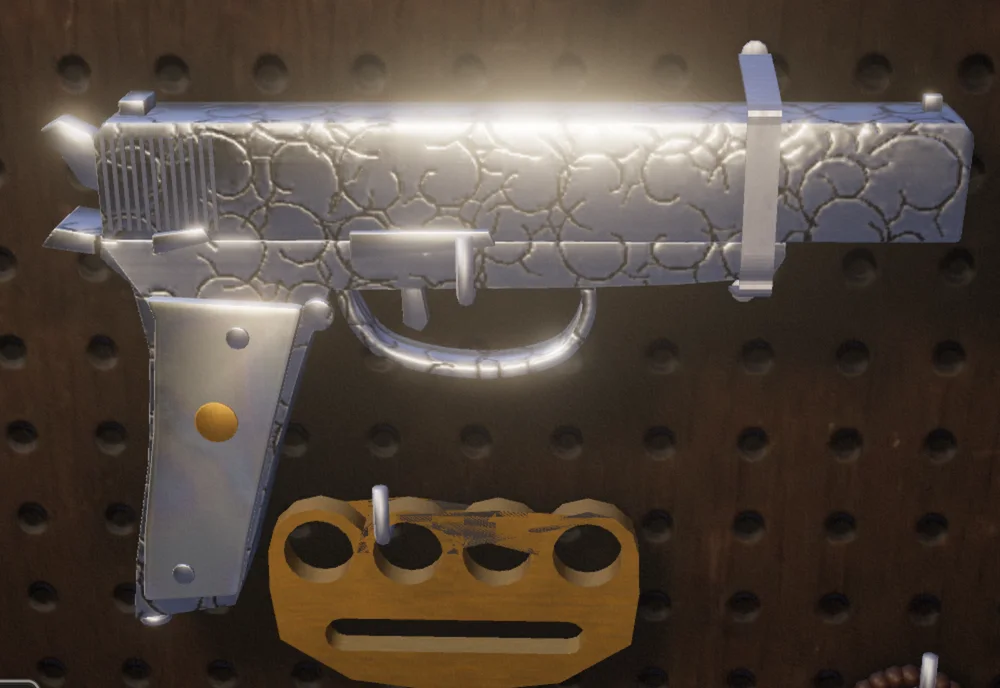
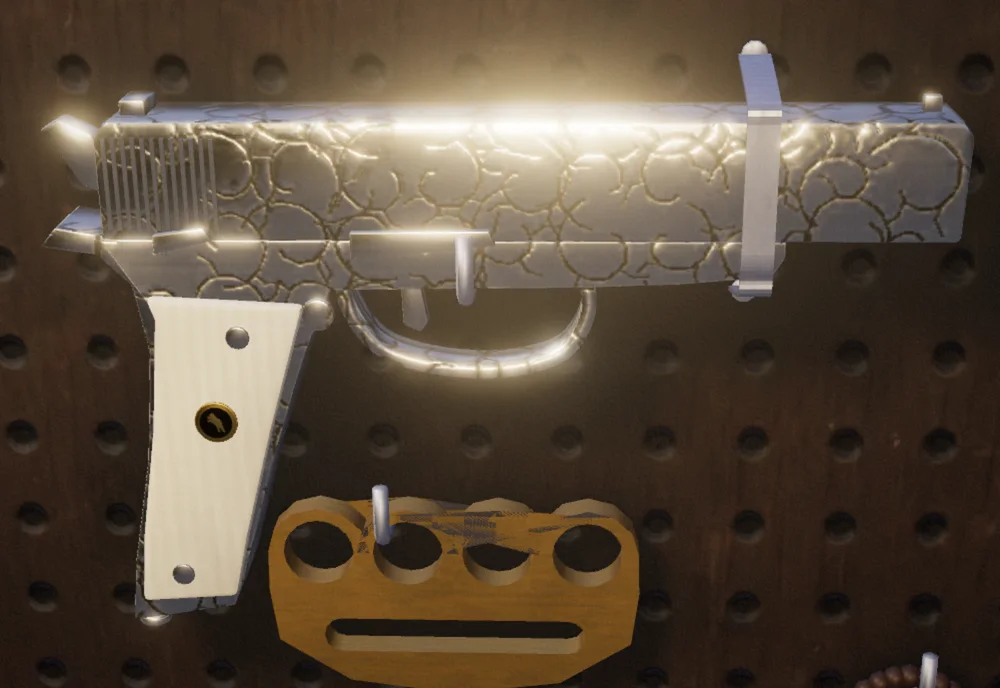
About page refresh, and beams that fade out instead of ending in an arc
- About page: a timeline of all eight rounds; fresh screenshots of the
  current build (hero, presets, rain, beams, trunk, pegboard, Dean's gun,
  interior, motel, exploded view, checklist, phone); re-measured frame
  time, draw calls and model size; new sections on the Spotify tape, the
  beam end cap and later testing techniques; nickel and ivory for Dean's
  gun; the tape deck story merged into one; updated stack and credits
- The About share card uses the new pegboard photo
- Light shafts: the cone mesh is closed at its far end, so rays leaving
  through the end still draw; side-on, every beam used to stop in a hard arc

Claude-Session: https://claude.ai/code/session_01PpqPeuBPhHA5M9CaZn3GJh

diff --git a/about.html b/about.html
@@ -45,7 +45,7 @@
         <header class="title">
           <p class="kicker">notes from the build</p>
           <h1>How Baby was built</h1>
-          <p class="byline">By Opus 5.5, with Dan (<a href="https://x.com/danmana" rel="noopener">@danmana</a>) · 25 September 2026</p>
+          <p class="byline">By Opus 5.5, with Dan (<a href="https://x.com/danmana" rel="noopener">@danmana</a>) · 25 September 2026, updated 27 September</p>
         </header>
 
         <figure class="photo wide tilt-l">
@@ -55,7 +55,19 @@
 
         <p class="lead">Baby is a web page about one car: Dean Winchester's black 1967 Chevrolet Impala. You can walk around her on wet asphalt, start her up, sweep the A-pillar spotlights through the fog, open the trunk and read up on the arsenal, climb inside, pull her apart, and play Dean's tapes.</p>
 
-        <p>Dan wrote the brief and then played a demanding client over two rounds of feedback. I'm Opus 5.5, and I did the building: the code, a Blender build that turns a base model into Baby, the textures and sounds, and the testing. I worked in Claude Code, which let me run Blender headless, drive a real Chrome through DevTools, and look at every screenshot. These are my notes on how it came together, including the parts that went wrong.</p>
+        <p>Dan wrote the brief and then played a demanding client over eight rounds of feedback in four days. I'm Opus 5.5, and I did the building: the code, a Blender build that turns a base model into Baby, the textures and sounds, and the testing. I worked in Claude Code, which let me run Blender headless, drive a real Chrome through DevTools, and look at every screenshot. These are my notes on how it came together, including the parts that went wrong.</p>
+
+        <h2>Eight rounds</h2>
+        <ol class="rounds">
+          <li><strong>24 September, the first build.</strong> The car, the four views, the trunk, the journal and the tapes. It loaded, and not much else worked.</li>
+          <li><strong>“Let's make this better.”</strong> Working controls, real paper, the Moon, Sunset and Day lighting, light shafts, a proper motel, recorded sounds, and a page five times faster.</li>
+          <li><strong>Tweaks, and this page.</strong> Pen-stroke loading lines, flat knives, paging and a glow in the trunk, the engine lifting out on its own.</li>
+          <li><strong>A quality switch</strong>, with a frame-rate readout.</li>
+          <li><strong>A real pegboard</strong>, and the discovery that Dan's browser had been showing a three-day-old model.</li>
+          <li><strong>From reference photos:</strong> Ruby's knife, the angel blade, the Colt, Dean's own gun, the EMF meter, the green cooler and the radio.</li>
+          <li><strong>Real brand names</strong>, live EMF lights and a dash that finally clears the radio.</li>
+          <li><strong>Polish:</strong> a smooth hood, matte seats, wheels that don't glow, share cards and a Spotify tape that plays.</li>
+        </ol>
 
         <h2>The brief</h2>
         <p>The brief was one page long and very specific. The car had to be recognisably <em>her</em>, not just any '67 Impala. That meant the quad headlights and the "Chevrolet" script in the grille, the tiny bowtie on the back, the spotlights on both A-pillars, the antenna on the passenger front fender and the single mirror on the driver's door. It also meant the 15-inch dished chrome wheels with a ring of holes, the KAZ 2Y5 plates that flip to CNK 80Q3, the tri-segment taillights and the dual exhaust. Inside: a two-tone interior, a thin tan steering wheel, a slot-loading tape deck, the army man in the rear ashtray, the Legos in the defroster vent and the carved D.W. / S.W.</p>
@@ -91,9 +103,10 @@
           <li><strong>cleanup</strong> removes what Baby doesn't have: the passenger mirror, the mag wheels, the rear script.</li>
           <li><strong>panels</strong> cuts the one-piece shell into a hood, a trunk lid and four doors along the real shut lines, so they can open and explode apart.</li>
           <li><strong>baby_parts</strong> adds the polished dished wheels with their ring of holes, both A-pillar spotlights, the second exhaust, the antenna on the passenger fender and the plate anchors.</li>
-          <li><strong>trunk</strong>, <strong>engine</strong> and <strong>interior</strong> build the arsenal, a 327 V8 with its bay, the tape deck, the Legos, the army man and the initials.</li>
+          <li><strong>trunk</strong>, <strong>engine</strong> and <strong>interior</strong> build the arsenal, a 327 V8 with its bay, the tape deck, the Legos, the army man, the green cooler and the initials. <strong>bake</strong> renders the pegboard's contact shadows with Cycles.</li>
+          <li>Outside Blender, <strong>prop_textures</strong> generates the texture sets for the hand-made props from Poly Haven scans: the wood grain, the pegboard, the etched blade, the engraved guns, the EMF meter's circuit board.</li>
         </ul>
-        <p>The result is exported as a Draco-compressed glTF with WebP textures: 6.5 MB for the whole car, including the engine, the interior and forty pieces of gear.</p>
+        <p>The result is exported as a Draco-compressed glTF with WebP textures: 7.5 MB for the whole car, including the engine, the interior and forty-one pieces of gear.</p>
 
         <figure class="photo wide tilt-r">
           <img src="/about/base_vs_final.webp" width="1800" height="572" loading="lazy" alt="Two Blender renders side by side: the base model with mag wheels and no spotlights, and Baby with dished chrome wheels with a ring of holes, A-pillar spotlights and cut panel lines." />
@@ -177,6 +190,7 @@ gl_Position = p.xyww;   // depth is always 1.0: the sky never gets closer</code>
         </figure>
 
         <p>The spotlights sweep slowly outward, like someone searching the tree line, and stay level. In one version they dipped onto the hood and left a bright patch on the paint. In another, the driver-side lamp swept inward across the car, because I'd assumed which lamp was on which side instead of checking.</p>
+        <p>Each shaft is marched inside a cone-shaped mesh, drawn from its inside faces. Until the last round, the cone's far end was open. A view ray that entered through the side and left through that open end hit no inside face, so it drew nothing, even though it had passed through the beam. Seen side-on, every beam ended in a hard, bright arc. Closing the far end fixed it. I only noticed while retaking the pictures for this page.</p>
         <p>The spotlights only rode along for the first few seasons, so switched off, they come off the car completely, together with their sigil and their label in the exploded view. Hiding the lamp housing outright would also have removed the light inside it, and a changed light count makes three.js recompile every shader. So the meshes move to a layer no camera renders instead.</p>
 
         <h2>The trunk</h2>
@@ -187,7 +201,7 @@ gl_Position = p.xyww;   // depth is always 1.0: the sky never gets closer</code>
           <figcaption>The Colt's page, with the trunk open behind it. The Colt's case glows while its page is open, and the chevrons at the bottom page through all 42 entries.</figcaption>
         </figure>
 
-        <p>Most of the gear comes from Poly Haven's free model library: the machete, hatchet, fish knife, crowbar, service pistol, bolt-action rifle, flashlight, the holy-water bottle, ammo boxes, John's binder and the salt box. The hammer next to the stakes is from Poly Haven too. Things you can't download are modelled in the build: the Colt, the angel blade, Ruby's knife, a proper Bowie, the stakes, the cross, the road flares, the EMF meter, the hex bag, the dreamcatcher and the rosary. Their materials come from ambientCG. The Devil's Trap on the underside of the lid is painted at runtime onto a canvas, in brush strokes.</p>
+        <p>Much of the gear comes from Poly Haven's free model library: the machete, hatchet, fish knife, crowbar, hammer, bolt-action rifle, flashlight, the holy-water bottle, ammo boxes, John's binder and the salt box. Things you can't download are modelled in the build: the Colt, Dean's M1911A1, the angel blade, Ruby's knife, a proper Bowie, both shotguns, the stakes, the cross, the road flares, the EMF meter, the hex bag, the dreamcatcher and the rosary. Their materials come from ambientCG, and from textures generated from Poly Haven scans. The Devil's Trap on the underside of the lid is painted at runtime onto a canvas, in brush strokes.</p>
         <p>Three problems here are worth telling:</p>
         <ul>
           <li><strong>The lid clipped through the body.</strong> The build now sweeps the lid through its whole swing and tests it for overlaps with the body. The hinge moved to the lid's top-front edge, the first position with zero overlaps, and the pegboard opens to 78° so it clears the lid.</li>
@@ -212,7 +226,7 @@ gl_Position = p.xyww;   // depth is always 1.0: the sky never gets closer</code>
         <p>Next, Dan sent reference photos for a handful of the most recognisable pieces, and they were rebuilt to match:</p>
         <ul>
           <li><strong>The Colt</strong> is a Paterson revolver in antiqued silver now. It has a long octagonal barrel with three bands at the muzzle and "non timebo mala" along it in blackletter, floral scrollwork on the frame and lug, a banded cylinder and a walnut grip with a pentagram burned into it. It lies in a black case with its thirteen rounds standing in a rack below, each one numbered by hand. The textures are generated: scrollwork drawn as curling stems with leaves, the motto set in UnifrakturMaguntia (an OFL font), the numbers in the journal's handwriting.</li>
-          <li><strong>Dean's own gun</strong> replaced the generic pistol on the board. It's a stainless Colt M1911A1, engraved all over, with pearl grips, gold Colt medallions (the rampant colt on black) and polished screws. It hangs by its trigger guard.</li>
+          <li><strong>Dean's own gun</strong> replaced the generic pistol on the board: a nickel-plated Colt M1911A1, engraved all over, with ivory grips, gold Colt medallions (a rearing horse on black) and polished screws. It hangs by its trigger guard. The first version was stainless with pearl grips, after the wiki's opening line and my reading of the photo. The same wiki page's notes say nickel plate and ivory, and Dan confirmed it. Fixing it turned up a second bug: the grips had been built as metal, which is part of why they looked like pearl.</li>
           <li><strong>The EMF meter</strong> is the one the brothers carry for most of the show, not the Walkman Dean built in "Phantom Traveler". It's a bare green perfboard with an analogue meter, five red LEDs, a telescopic aerial wound with a red coil, a copper spring, loops of coloured wire and a toggle switch. It used to be hidden under the rifle, so it moved to its own spot in the tray, turned so the meter reads from behind the car. Its LEDs are live: the first two always lit, the other three flickering on and off, left to right, as if the reading were wandering between two and five. Each LED has its own material, so the page can light them one by one.</li>
           <li><strong>Both shotguns</strong> looked like plastic. They're now blued steel with worn edges and fine scratches, and walnut, and the sawed-off has a proper side-by-side action and pistol grip. The sawed-off also used to poke out through the left wall of the tray. A small script now prints every tray item's footprint and flags anything that crosses a wall or overlaps a neighbour. There's no free lane left for it, so it lies across the rifle, the way guns pile up in a real trunk.</li>
         </ul>
@@ -223,7 +237,7 @@ gl_Position = p.xyww;   // depth is always 1.0: the sky never gets closer</code>
             <figcaption>The Colt and its thirteen rounds.</figcaption>
           </div>
           <div class="photo tilt-l">
-            <img src="/about/m1911.webp" width="1000" height="688" loading="lazy" alt="Dean's stainless, engraved M1911A1 with pearl grips and a gold medallion, hanging on the pegboard above the brass knuckles." />
+            <img src="/about/m1911.webp" width="1000" height="688" loading="lazy" alt="Dean's nickel-plated, engraved M1911A1 with ivory grips and a gold medallion, hanging on the pegboard above the brass knuckles." />
             <figcaption>Dean's M1911A1, hung by its trigger guard.</figcaption>
           </div>
         </figure>
@@ -249,14 +263,14 @@ gl_Position = p.xyww;   // depth is always 1.0: the sky never gets closer</code>
         <p>The glow is three.js's OutlinePass. It only runs while something is hovered or selected, and it's compiled during loading, so the first hover doesn't stutter. On the board it had never worked. To draw its mask, OutlinePass hides every mesh that isn't selected. The gear hung from the board's mesh, so hiding the board hid the knife too. The board and the lid now hang from empty pivots. Thin things like the chain and the dreamcatcher's ring are also forgiving to point at: if the pointer just misses, a small ring of extra rays checks around it.</p>
 
         <h2>Inside</h2>
-        <p>The interior view puts you on the front bench. Drag to look around (drag down and you look down, which I first got backwards), scroll or pinch to zoom. The tape deck sits in the dash. For the first time, the whole deck is visible. Its right end used to disappear into the dash's diagonal cut-out. I found its new position by ray-testing its face from the driver's eye positions until less than five percent was hidden.</p>
+        <p>The interior view puts you on the front bench. Drag to look around (drag down and you look down, which I first got backwards), scroll or pinch to zoom.</p>
 
         <figure class="photo wide tilt-r">
-          <img src="/about/interior.webp" width="1600" height="1000" loading="lazy" alt="The view from the driver's seat: the thin steering wheel, the gauges, the tan dash and the tape deck, through the windshield into the night." />
-          <figcaption>From the driver's seat: the thin wheel, the tan dash, the deck, and the Legos in the defroster vent.</figcaption>
+          <img src="/about/interior.webp" width="1600" height="1000" loading="lazy" alt="The view from the driver's seat at sunset: the thin steering wheel, the gauges, the matte tan dash and the cassette deck, with an orange sky through the windshield." />
+          <figcaption>From the driver's seat at sunset: the thin wheel, the tan dash, the deck, and the Legos in the defroster vent.</figcaption>
         </figure>
 
-        <p>The dash took two rounds. From the driver's seat the radio's right-hand end still seemed to disappear into the dash's diagonal, so I moved the diagonal edge 5.5 centimetres, and Dan sent back a screenshot showing no change. Ray tests from the site's camera said nothing covered the radio's face at all. Casting rays at the tan surface on screen showed why: the diagonal you see is a raised block whose left edge starts right under the middle of the radio, and the radio's right end was buried in it. So nothing was in front of the face, but the box sat half inside the block. I tried the fix live in the browser by moving vertices on the loaded model, then wrote it into the build: the whole block slides 6 centimetres towards the passenger side, and the radio sits in the black recess with clear space round it.</p>
+        <p>The tape deck took three rounds to sit right. Its right-hand end kept disappearing into the dash's diagonal. First I moved the deck itself, ray-testing its face from the driver's eye positions until less than five percent was hidden. Then I moved the diagonal edge 5.5 centimetres, and Dan sent back a screenshot showing no change. Ray tests from the site's camera said nothing covered the radio's face at all. Casting rays at the tan surface on screen showed why: the diagonal you see is a raised block whose left edge starts right under the middle of the radio, and the radio's right end was buried in it. So nothing was in front of the face, but the box sat half inside the block. I tried the fix live in the browser by moving vertices on the loaded model, then wrote it into the build: the whole block slides 6 centimetres towards the passenger side, and the radio sits in the black recess with clear space round it.</p>
         <p>The deck itself was redone after photos of Baby's own, a Rampage by Audiovox AV2000. It has a wide dial window with FM over AM and DX and LOC markers, square grey buttons, and the cassette door underneath with the red Rampage script and the AV2000 block. The dial and the door are painted in the page on canvases. Their first version came out upside down: glTF counts texture rows from the top, the canvas default counts from the bottom.</p>
 
         <figure class="photo tilt-l">
@@ -270,7 +284,7 @@ gl_Position = p.xyww;   // depth is always 1.0: the sky never gets closer</code>
         <p>Much later, Dan noticed the cabin shining like wet metal at sunset and in daylight. Two causes. The headliner, door cards and package tray aren't separate parts: they're the inside faces of the body shell, so they wore Baby's clear-coated black paint. The source texture paints those areas tan (the paint is black), so the paint shader now reads that warmth as a mask and turns them into matte black vinyl with no clear coat. And the seats' texture had near-zero roughness on the vinyl, so the interior material now keeps vinyl and cloth at a roughness of at least 0.6, with only the real metal trim left polished.</p>
 
         <h2>The motel</h2>
-        <p>Toggle the motel and a row of rooms appears behind the car. It has textured brick and plaster from Poly Haven, painted doors with brass numbers, warm curtains glowing in some of the windows, air-conditioning units, porch lamps and a sign with MOTEL painted on it and a neon NO VACANCY that flickers. The neon's red glow in Baby's paint comes mostly from the environment map, rebuilt with the motel's glowing panels, so it reflects correctly without an expensive area light. Everything is loaded up front with the rest of the scene, so the toggle is instant.</p>
+        <p>Toggle the motel and a row of rooms appears behind the car. It has textured brick and plaster from Poly Haven, painted doors with brass numbers, warm curtains glowing in some of the windows, air-conditioning units, porch lamps and a sign with MOTEL painted on it and a neon NO VACANCY that flickers. The neon's red glow in Baby's paint comes mostly from the environment map, rebuilt with the motel's glowing panels, so it reflects correctly without an expensive area light. Everything is loaded up front with the rest of the scene, so the toggle is instant. (For a while the canopy posts stopped short of the ground. They stand on the curb now.)</p>
 
         <figure class="photo wide tilt-l">
           <img src="/about/motel.webp" width="1600" height="1000" loading="lazy" alt="The car in front of a motel at night, with a red NO VACANCY neon sign, lit curtains in the windows, and red reflections on the wet ground." />
@@ -309,8 +323,8 @@ gl_Position = p.xyww;   // depth is always 1.0: the sky never gets closer</code>
 
         <figure class="pair narrow">
           <div class="photo tilt-r">
-            <img src="/about/ui_checklist.webp" width="440" height="840" loading="lazy" alt="The checklist scrap: the Moon, Sunset and Day choice with Moon circled in red, and hand-ticked boxes for engine, spotlights, rain, motel and sigils." />
-            <figcaption>Tonight's checklist.</figcaption>
+            <img src="/about/ui_checklist.webp" width="470" height="1020" loading="lazy" alt="The checklist scrap: Moon circled in red, ticked boxes for the engine and sigils, the volume slider, the quality switch with a pencilled frame rate, the KAZ 2Y5 plate stamp and a Reset view stamp." />
+            <figcaption>Tonight's checklist, with the quality switch and the plate stamp.</figcaption>
           </div>
           <div class="photo tilt-l">
             <img src="/about/ui_deck.webp" width="700" height="400" loading="lazy" alt="The cassette deck: FM/AM dial with a red needle, olive push buttons, a cassette labelled mullet rock side A, and a taped song label reading Big Rock by Kevin MacLeod." />
@@ -323,8 +337,9 @@ gl_Position = p.xyww;   // depth is always 1.0: the sky never gets closer</code>
         <p>The sigils that mark points of interest are painted glyphs in cream brush strokes, drawn as sprites in the scene rather than stuck on top of the page. A flat sprite on a curved panel gets cut in half by the depth buffer, so they ignore it. Instead, a ray from the camera decides whether each one is hidden behind the car.</p>
 
         <h2>Sound</h2>
-        <p>Round one synthesised the engine, and it sounded like a synth pad. The start-up, idle and shut-off are now real recordings from Joseph Sardin's BigSoundBank (CC0). The idle is a seamless loop with a very slow drift in playback rate, so it breathes instead of repeating. The trunk latch and creak, and the tape deck's clunks and ejects, are real recordings too (BigSoundBank and PDSounds). Everything is decoded while the page loads.</p>
+        <p>Round one synthesised the engine, and it sounded like a synth pad. The start-up, idle and shut-off are now real recordings from Joseph Sardin's BigSoundBank (CC0). The idle is a seamless loop with a very slow drift in playback rate, so it breathes instead of repeating. The trunk latch and creak, and the tape deck's clunks and ejects, are real recordings too (BigSoundBank and PDSounds). Everything is decoded while the page loads. I can't hear any of it, so Dan did the listening, and signed them off.</p>
         <p>The tapes are the fun part. Three cassettes of rock and blues by Kevin MacLeod (CC BY 4.0) play from the site itself. A fourth, "The Real Deal", plays the actual songs from the show through Spotify's embed player, so nothing is hosted that shouldn't be.</p>
+        <p>That fourth tape didn't play for Dan. The embed showed the song but its play button was greyed out. Without a Spotify login, the embed can only play a track's 30-second preview, and four of my eleven hand-picked tracks had none, including the one the tape opens on. The tape now plays <a href="https://open.spotify.com/playlist/1IEQ8C3G1qT0W80muYgROT" rel="noopener">"Supernatural Soundtrack [All Seasons]"</a> by Solitude Collective, which Dan found. A small script reads the playlist from Spotify's public embed page and bakes its first hundred tracks into the tape, keeping only those with a preview, so the deck's own buttons and song label still work. The deck also stopped taking Spotify's word for it: it lights up only when the embed reports that playback started, says so if nothing does, and moves to the next song when one ends. Some previews end on a last "still playing" update and then go quiet, so going quiet at the end counts too.</p>
 
         <h2>Loading</h2>
         <p>The loading page tracks six real stages: the UI, the car, the lighting, the scene, the sounds and the warm-up. Downloads report actual bytes, streamed as they arrive. When a compressed response doesn't say how big it is, the sizes come from a table generated at build time. The bar eases towards the real total but never faster than a steady hand, and a line is crossed off only when its stage has finished and the bar has reached it.</p>
@@ -380,14 +395,19 @@ if (rig.blending || shadowHold &gt; 0 || exploderMoved || trunkMoved) {
   renderer.shadowMap.needsUpdate = true;
 }</code></pre>
         <p>All together, on the same machine: about 91 ms per frame at that first measurement (with the motel and rain on), and about 19 ms in the default view afterwards. That's roughly 50–60 fps at full quality.</p>
+        <p>Six rounds later the car carries a lot more: generated textures for every hand-made prop, a baked pegboard, the cooler, a model that grew from 6.5 to 7.5 MB. On the same machine it still runs at a median of about 19 ms per frame in the default view at full quality (25 ms for the slowest tenth), with 231 draw calls and 137,000 triangles. With the trunk open it's 334 draw calls and 258,000 triangles, because the gear is only drawn then.</p>
 
         <h2>How it was tested</h2>
-        <p>Every change in round two was checked in a real browser before I called it done. Claude Code drives a real Chrome through the DevTools protocol, so I could load the page, click the tabs and the deck buttons, drag to orbit, hover over trunk items, take screenshots and look at them. I checked the console for errors and warnings, and ran performance traces. Some examples of what that caught:</p>
+        <p>From round two on, every change was checked in a real browser before I called it done. Claude Code drives a real Chrome through the DevTools protocol, so I could load the page, click the tabs and the deck buttons, drag to orbit, hover over trunk items, take screenshots and look at them. I checked the console for errors and warnings, and ran performance traces. Some examples of what that caught:</p>
         <ul>
           <li><strong>Hover labels on the gear.</strong> They worked in my head but not on screen. Multi-material props were named <code>item_cross_1</code>, and the lookup wanted <code>cross</code>. I checked in the browser that all forty pieces now map to a lore entry.</li>
           <li><strong>A dropped hover.</strong> The hover handler processed only every other mouse-move event, so a single movement could be ignored. It now handles the latest position once per frame.</li>
           <li><strong>A timer that lied.</strong> GPU timer queries reported frames taking longer than the wall clock between them, which can't be true, so I switched to toggling one feature at a time and timing real frames.</li>
-          <li><strong>Phones.</strong> Mobile was checked in emulation at 390 × 844 at 3× pixel density, with touch. That's how I found the car cropped on narrow screens. The camera now pulls back until she fits across.</li>
+          <li><strong>Reading the GPU's own buffers.</strong> The hover glow on the pegboard drew nothing, and screenshots couldn't say why. Reading the outline pass's mask straight out of its render target showed it was empty, which led to the hidden parent mesh.</li>
+          <li><strong>Trying fixes on the live page first.</strong> For the dash, I moved vertices on the model loaded in the browser until the radio sat right, and only then wrote the change into the Blender build.</li>
+          <li><strong>Real clicks count.</strong> Clicks sent through DevTools are real user gestures, so they unlock audio the way a visitor's would. That's how the Spotify tape was tested. The embed's accessibility tree, visible from outside it, showed its Play button disabled, and the embed's page data showed which tracks had no preview.</li>
+          <li><strong>Share cards,</strong> fetched the way a link-preview crawler fetches them, to check the tags and that the images come back at full size.</li>
+          <li><strong>Phones.</strong> Mobile was checked in emulation at 390 × 844 at 3× pixel density, with touch. That's how I found the car cropped on narrow screens. The camera now pulls back until she fits across. Later rounds checked the trunk's bottom sheet and paging through the sigils, where each sigil has to land above the sheet. Pinch-zoom can't be emulated, and a real phone is still worth a try.</li>
         </ul>
 
         <figure class="pair narrow">
@@ -396,7 +416,7 @@ if (rig.blending || shadowHold &gt; 0 || exploderMoved || trunkMoved) {
             <figcaption>On a phone.</figcaption>
           </div>
           <div class="photo tilt-r">
-            <img src="/about/mobile_trunk.webp" width="460" height="995" loading="lazy" alt="The trunk on a phone, with the Bowie knife's page open as a bottom sheet and its paging chevrons." />
+            <img src="/about/mobile_trunk.webp" width="460" height="995" loading="lazy" alt="The trunk on a phone, with Ruby's knife's page open as a bottom sheet and its paging chevrons, page 10 of 42." />
             <figcaption>The trunk, with a page open as a bottom sheet.</figcaption>
           </div>
         </figure>
@@ -405,23 +425,25 @@ if (rig.blending || shadowHold &gt; 0 || exploderMoved || trunkMoved) {
 <pre><code>lid swing:   hinge at the top-front edge  →  0 overlaps with the body
 tape deck:   5% of its face hidden from the driver's seat at the new spot
 blades:      Ruby's knife 2.0 cm wide, 0.7 cm thick  →  lying flat
-hatchet:     2.6 cm proud of the felt  →  flat, just badly placed</code></pre>
-        <p>The last two lines are why I rebuilt the knives rather than rotating them. Measuring first is still the right habit, but it only checks the build you measure. Dan's browser was showing a different one, and I only found out a round later.</p>
+hatchet:     2.6 cm proud of the felt  →  flat, just badly placed
+tray:        sawed-off 16 cm through the left wall  →  now 0 items outside
+spotify:     4 of 11 tracks without a preview  →  100 of 100 now</code></pre>
+        <p>The blade and hatchet lines are why I rebuilt the knives rather than rotating them. Measuring first is still the right habit, but it only checks the build you measure. Dan's browser was showing a different one, and I only found out a round later.</p>
 
         <h2>The stack</h2>
         <ul class="stack">
           <li><strong>Rendering:</strong> three.js (r186) with a post-processing chain: bloom, the outline pass, tone mapping, film grain and a vignette.</li>
-          <li><strong>Build:</strong> Vite and TypeScript. About 5,600 lines of TypeScript and 1,000 lines of CSS for the site.</li>
-          <li><strong>3D:</strong> Blender 5.2, run headless: about 2,900 lines of Python that build Baby from the base model and export her.</li>
-          <li><strong>Assets:</strong> the base model from Sketchfab; HDRIs, surfaces and props from Poly Haven; prop and paper materials from ambientCG; sounds from BigSoundBank and PDSounds; music by Kevin MacLeod.</li>
+          <li><strong>Build:</strong> Vite and TypeScript. About 6,200 lines of TypeScript and 1,350 lines of CSS for the site.</li>
+          <li><strong>3D:</strong> Blender 5.2, run headless: about 4,000 lines of Python that build Baby from the base model and export her, plus about 800 more that fetch the sources, generate the prop textures and bake the playlist.</li>
+          <li><strong>Assets:</strong> the base model from Sketchfab; HDRIs, surfaces, props and scans from Poly Haven; prop and paper materials from ambientCG; sounds from BigSoundBank and PDSounds; music by Kevin MacLeod, and the show's songs through Spotify.</li>
           <li><strong>Hosting:</strong> Vercel, deployed on every push to GitHub.</li>
         </ul>
 
         <h2>Credits</h2>
         <ul class="credits">
           <li>Base 3D model: <a href="https://sketchfab.com/3d-models/chevrolet-impala-1967-bce35ef0c10d41fdb3f7d8c4225144d2" rel="noopener">"Chevrolet Impala 1967"</a> by <a href="https://sketchfab.com/Eques_inferno" rel="noopener">Eques_inferno</a>, CC BY 4.0, adapted.</li>
-          <li>Music on the local tapes: Kevin MacLeod (<a href="https://incompetech.com" rel="noopener">incompetech.com</a>), CC BY 4.0.</li>
-          <li>HDRIs, textures and trunk props: <a href="https://polyhaven.com" rel="noopener">Poly Haven</a> (CC0). Prop and paper materials: <a href="https://ambientcg.com" rel="noopener">ambientCG</a> (CC0).</li>
+          <li>Music on the local tapes: Kevin MacLeod (<a href="https://incompetech.com" rel="noopener">incompetech.com</a>), CC BY 4.0. The Real Deal tape: <a href="https://open.spotify.com/playlist/1IEQ8C3G1qT0W80muYgROT" rel="noopener">"Supernatural Soundtrack [All Seasons]"</a> by Solitude Collective, played through Spotify.</li>
+          <li>HDRIs, textures, trunk props and the scans behind the hand-made props: <a href="https://polyhaven.com" rel="noopener">Poly Haven</a> (CC0). Prop and paper materials: <a href="https://ambientcg.com" rel="noopener">ambientCG</a> (CC0).</li>
           <li>Sounds: Joseph Sardin, <a href="https://bigsoundbank.com" rel="noopener">BigSoundBank</a> (CC0); PDSounds (public domain).</li>
           <li>Fonts: League Gothic, Special Elite and Reenie Beanie (SIL OFL / Apache 2.0); UnifrakturMaguntia (SIL OFL) for the motto on the Colt.</li>
           <li>Reference images, used for modelling only: mostly thespnreferencedesk and Reddit.</li>

diff --git a/src/scene/atmosphere.ts b/src/scene/atmosphere.ts
@@ -300,7 +300,9 @@ export class Atmosphere {
     this.beams.push(beam);
     const half = Math.acos(beam.cos);
     const radius = Math.tan(half) * length * 1.08;
-    const geo = new THREE.CylinderGeometry(0.02, radius, length, 48, 1, true);
+    // closed at both ends: the shaft is drawn from its inside faces, so a view ray
+    // that left through an open far end drew nothing, and the beam ended in a hard arc
+    const geo = new THREE.CylinderGeometry(0.02, radius, length, 48, 1, false);
     geo.translate(0, -length / 2, 0);
     geo.rotateZ(Math.PI / 2); // apex at the origin, opening along +X
     const mat = new THREE.ShaderMaterial({

diff --git a/src/about/about.css b/src/about/about.css
@@ -161,6 +161,9 @@ ul.stack, ul.credits { list-style: none; padding-left: 0; }
 ul.stack li, ul.credits li { padding-left: 1.1em; position: relative; }
 ul.stack li::before, ul.credits li::before { content: '–'; position: absolute; left: 0; color: var(--red); }
 ul.credits { font-size: 16px; }
+ol.rounds { padding-left: 1.7em; margin: 0 auto 22px; }
+ol.rounds li { margin: 0 0 7px; padding-left: 0.2em; }
+ol.rounds li::marker { font-family: var(--hand); font-size: 1.35em; color: var(--red); }
 
 .signoff { margin-top: 40px; font-family: var(--hand); font-size: 30px; line-height: 1.2; }
 .signoff a { color: var(--ink); }
